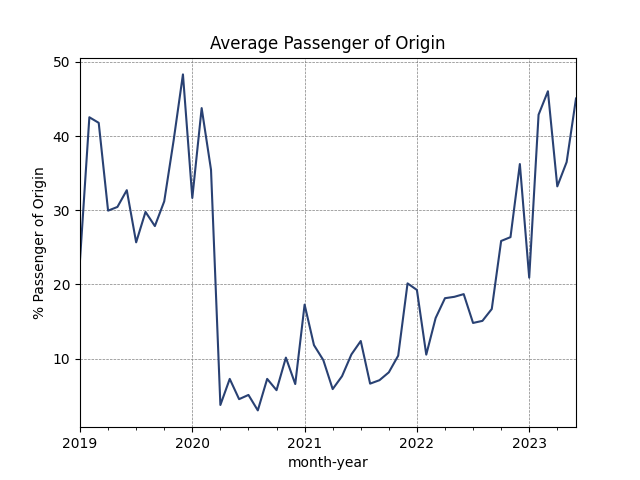
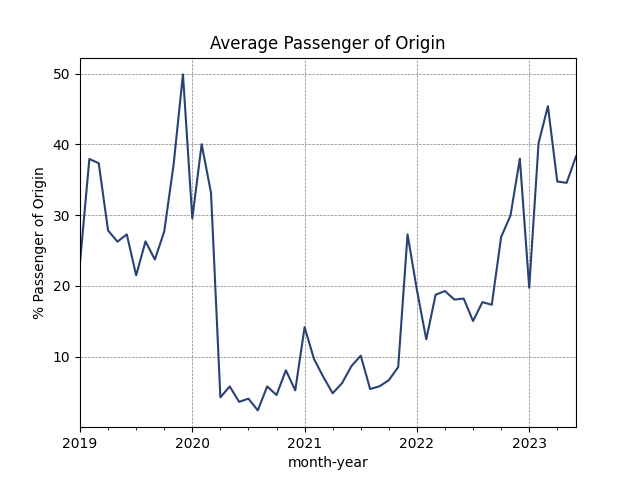
pls dont

diff --git a/DBanalysis/qry_generation_al.py b/DBanalysis/qry_generation_al.py
@@ -11,21 +11,25 @@ engine = create_engine(db_uri, echo=False)
 conn = engine.connect()
 
 def generateAl(origin, orig_continent, destination):
+    
     final = getairline1(orig_continent) + getairline2(origin, destination)
     topal_df = pd.read_sql_query(text(final), conn)
-    variables = topal_df['airline'].tolist()
     
+    variables = topal_df['airline'].tolist()
     airline_df = pd.DataFrame()
-    for var in variables:
-        qry = getseats1(orig_continent) + getseats2(origin, destination)
+    for vara in variables:
+        qry = getseats1(orig_continent) + getseats2(origin, destination,vara)
+        temp_df = pd.read_sql_query(text(qry), conn)
+        airline_df = pd.concat([airline_df, temp_df])
 
+    al_df = topal_df.merge(airline_df, on = 'airline', how = 'inner')
+    print(al_df)
     return topal_df
 
 def getseats1(continent):
     firstStr = """
     SELECT "Op Al" as airline, SUM("Seats") as seats
-    """ + "FROM cirium_traffic_"+continent
-
+    """ + "FROM cirium_schedule_"+continent
     return firstStr
 
     
@@ -38,9 +42,6 @@ def getairline1(continent):
     return firstStr
 
 def getseats2(orig, dest, airline):
-    finalStr = """
-    Group by airline
-    """
     origstr = formatAirports(orig)
     finalstr = formatAirports(dest)
     
@@ -49,7 +50,7 @@ def getseats2(orig, dest, airline):
         WHERE "Orig" IN
         """ + origstr + """
         AND "Stop-1 Airport" is null
-        """ + """AND "Op Al" = """ + airline +finalstr
+        """ + """AND "Op Al" IN ('""" + airline + "') Group by airline"
     
     final = """
         WHERE "Orig" IN
@@ -57,7 +58,7 @@ def getseats2(orig, dest, airline):
     AND "Dest" IN
     """ + finalstr + """
     AND "Stop-1 Airport" is null
-    """ + """AND "Op Al" = """ + airline +finalstr
+    """ + """AND "Op Al" IN ('""" + airline + "') Group by airline"
 
     return final
  

diff --git a/DBanalysis/qry_generation_trsch.py b/DBanalysis/qry_generation_trsch.py
@@ -10,12 +10,17 @@ engine = create_engine(db_uri, echo=False)
 conn = engine.connect()
 
 def generateTRSC(origin, orig_continent, destination):
+    print(f"Producing data frame for route from {formatAirports(origin)} to {formatAirports(destination)}")
     final = formatdest(origin, orig_continent, destination)
     tqry = formatfirst(orig_continent, 'traffic') + final
     sqry = formatfirst(orig_continent, 'schedule') + final
+    print(f"Produced monthly traffic data from {formatAirports(origin)} to {formatAirports(destination)}")
     traffic_df = pd.read_sql_query(text(tqry), conn)
+    print(traffic_df)
     schedule_df = pd.read_sql_query(text(sqry), conn)
+    print(f"Produced monthly traffic data from {formatAirports(origin)} to {formatAirports(destination)}")
     trsch_df = traffic_df.merge(schedule_df, on = 'month', how = 'inner')
+    print(schedule_df)
     return trsch_df
 
 def formatAirports(aps):
